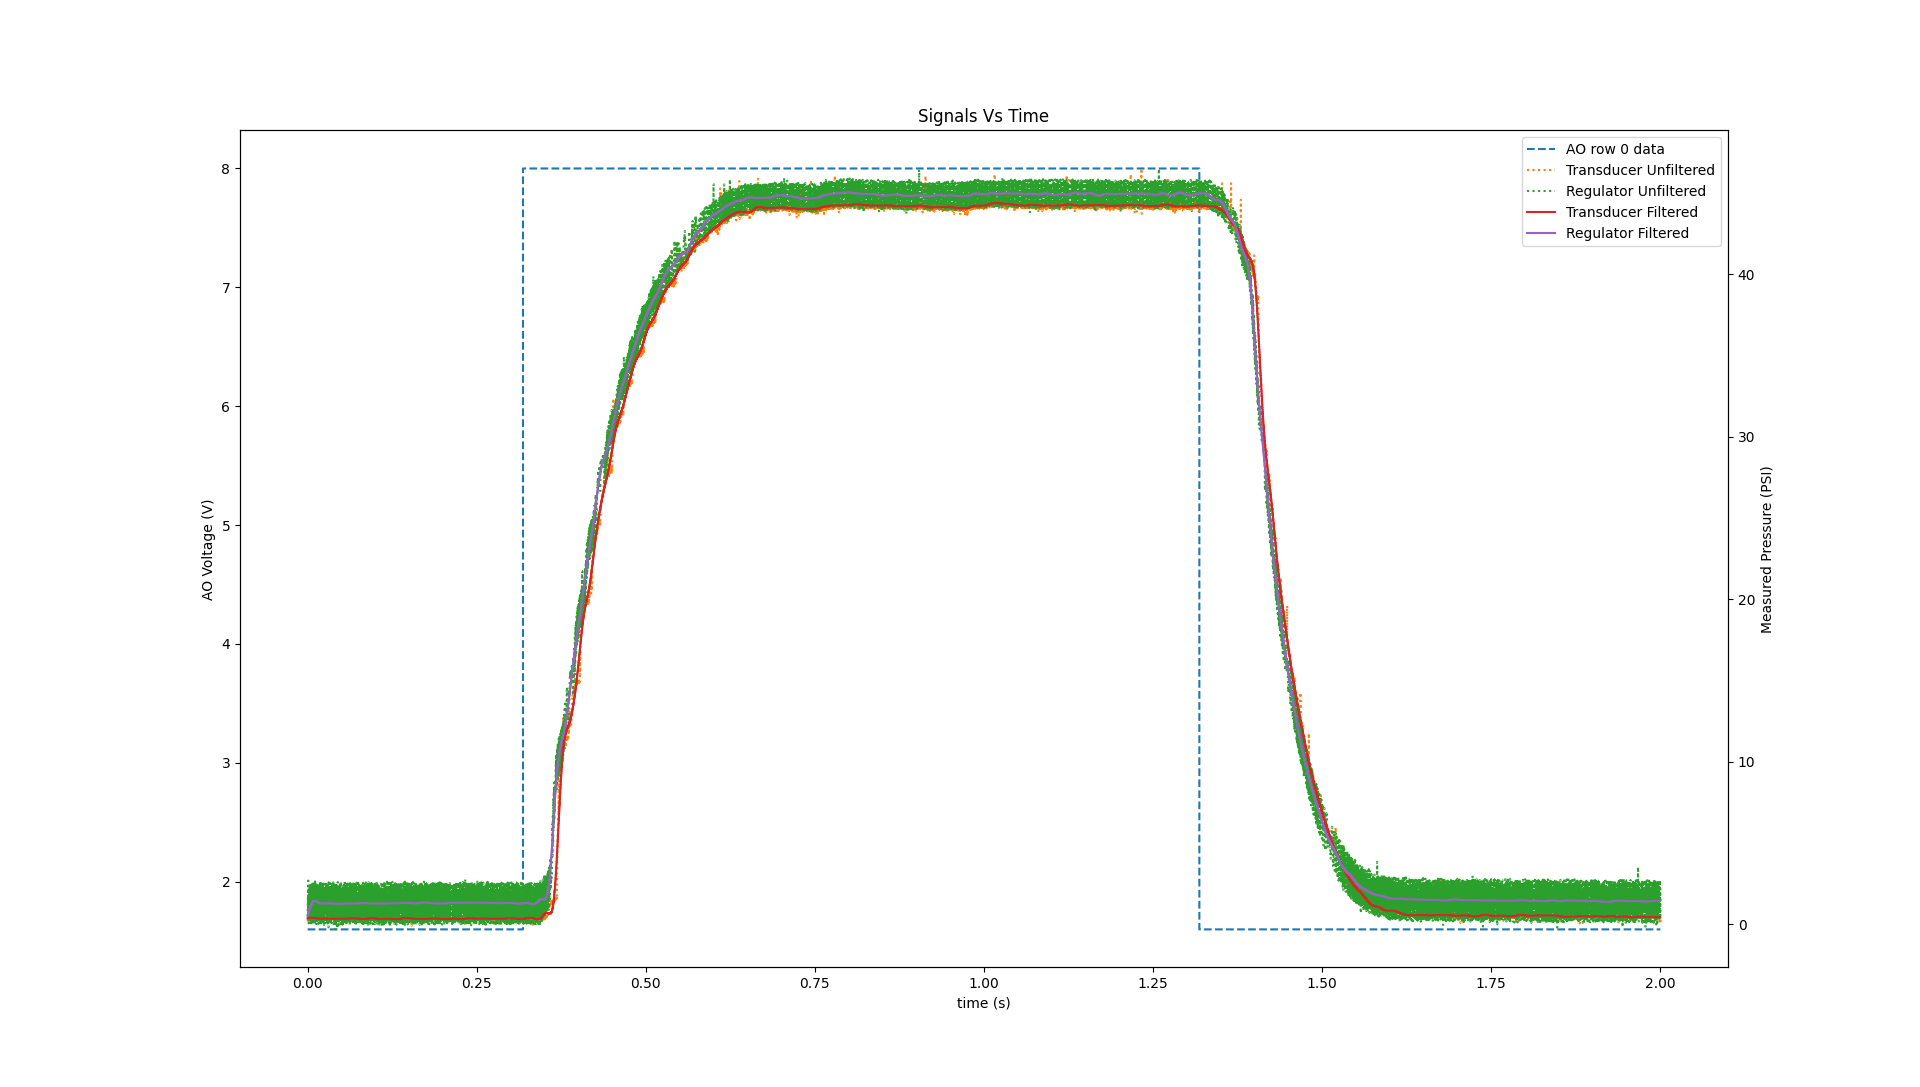
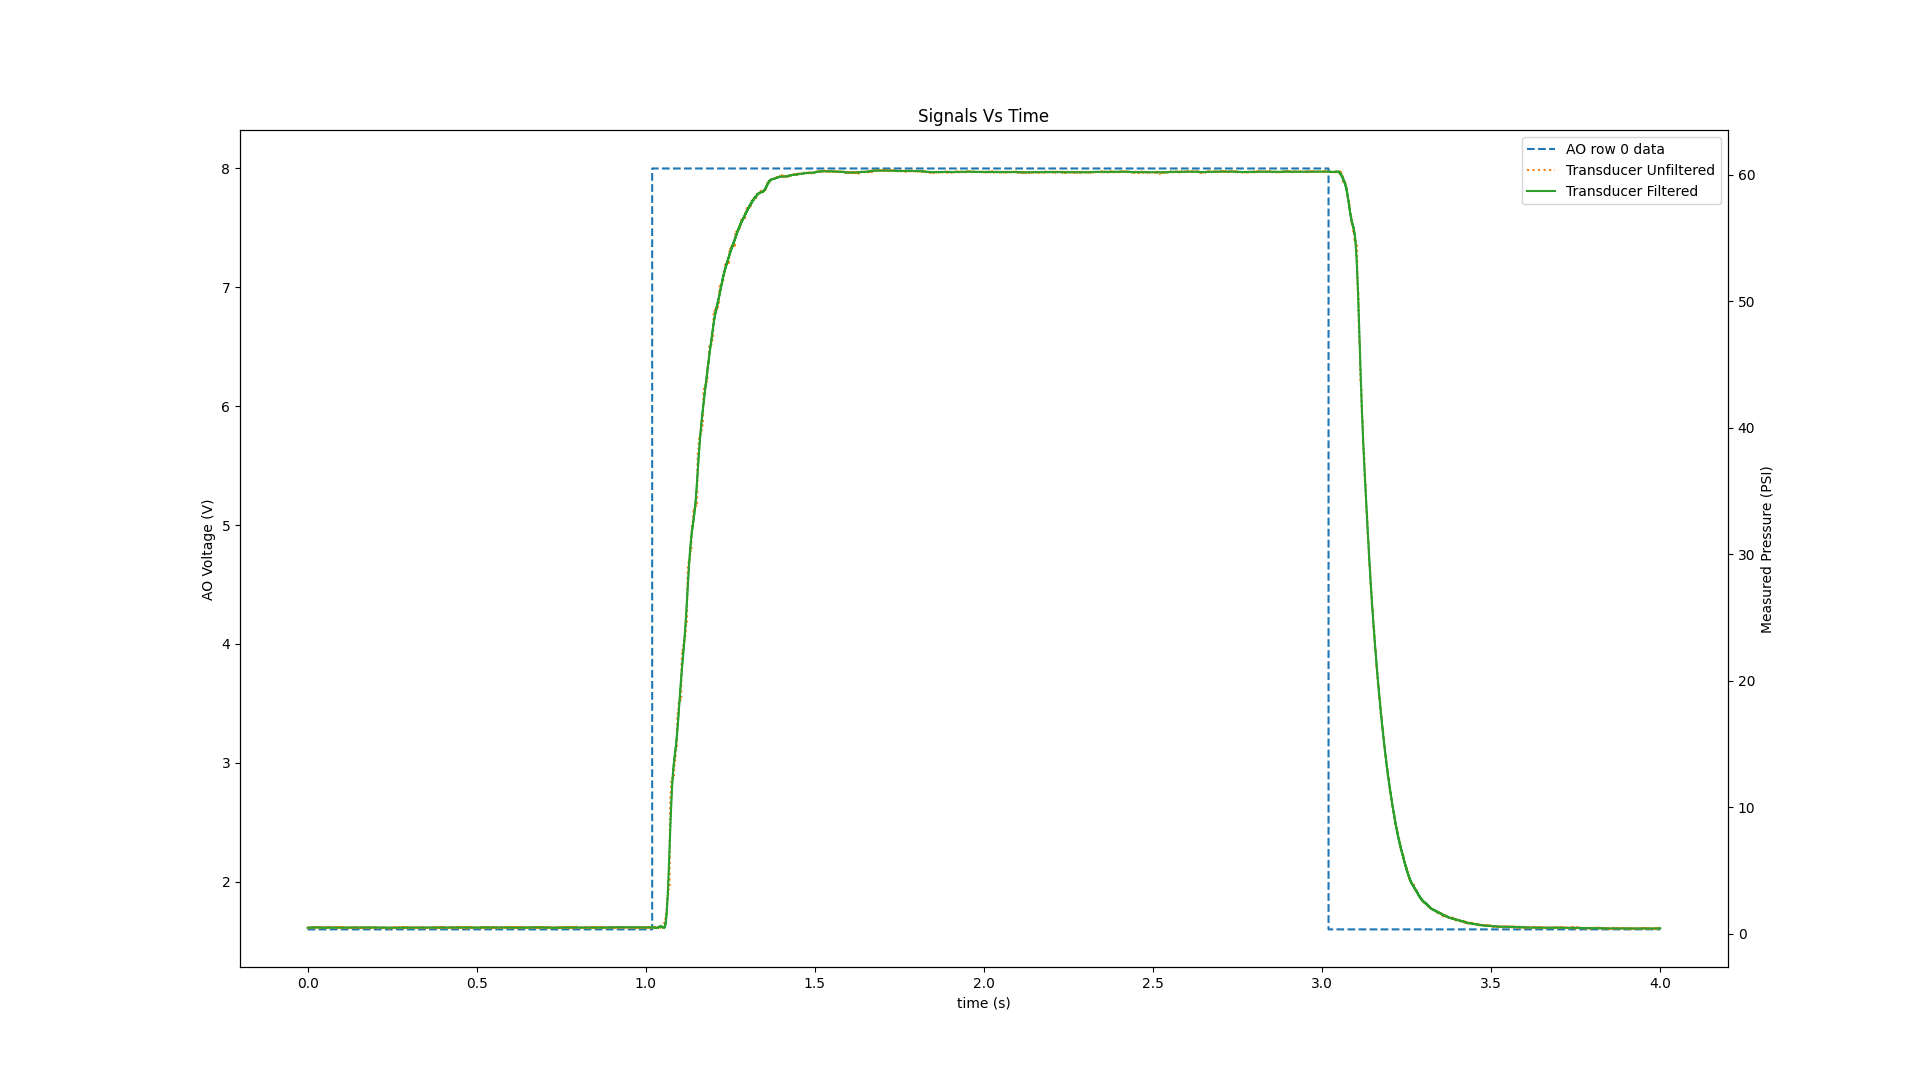
finished calibrating regulator 2

diff --git a/Pneumatic-Calibration/src/SamplingFuncs/CalibrationFunctions.py b/Pneumatic-Calibration/src/SamplingFuncs/CalibrationFunctions.py
@@ -73,7 +73,7 @@ def get_best_fit(time: np.ndarray[np.float64], analog_out_data: np.ndarray[np.fl
           - save_data:          True to save to JSON file, False to leave JSON data untouched
           - parameter_name:     Name for the parameter being fit (i.e. "CurrentLoop") to be used when storing data in the JSON file
           - filename:           File name of the JSON file for data export
-          - linenames:          Names for each row in measured_data to be put in legend
+          - linenames:          Names for each row in measured_data to be put in legend if "none", will use a marker style
           - linestyles:         line styles for each row in measured_data
                                              
         Outputs to JSON for each output pair:
@@ -138,47 +138,48 @@ def get_best_fit(time: np.ndarray[np.float64], analog_out_data: np.ndarray[np.fl
 
 
     # ---------------------- CALCULATE LoBF ----------------------
-    lobf_y_dat = np.zeros((num_fits,num_samples))
-    s_est_dat = np.zeros(num_fits)
+    if len(out_in_pairs) > 0:
+        lobf_y_dat = np.zeros((num_fits,num_samples))
+        s_est_dat = np.zeros(num_fits)
 
-    for fit in range(num_fits):
-        fit_pair = out_in_pairs[fit]
-        ao_channel = fit_pair[0]
-        in_channel = fit_pair[1]
+        for fit in range(num_fits):
+            fit_pair = out_in_pairs[fit]
+            ao_channel = fit_pair[0]
+            in_channel = fit_pair[1]
 
-        if not(0 <= ao_channel < num_ao_channels):
-            raise ValueError("value for analog out in 'out_in_pairs' is invalid, falls below 0 or outside of range of number of rows in analog_out_data")
-        if not(0 <= in_channel < num_in_channels):
-            raise ValueError("value for analog in in 'out_in_pairs' is invalid, falls below 0 or outside of range of number of rows in measured_data")
+            if not(0 <= ao_channel < num_ao_channels):
+                raise ValueError("value for analog out in 'out_in_pairs' is invalid, falls below 0 or outside of range of number of rows in analog_out_data")
+            if not(0 <= in_channel < num_in_channels):
+                raise ValueError("value for analog in in 'out_in_pairs' is invalid, falls below 0 or outside of range of number of rows in measured_data")
 
-        x = analog_out_data[ao_channel,:]
-        y = measured_data[in_channel,:]
+            x = analog_out_data[ao_channel,:]
+            y = measured_data[in_channel,:]
 
-        m,b = np.polyfit(x,y,1)                     # LoBF
-        y_pred = m*x + b                            # predicted current values from LoBF
-        ss_res = np.sum(np.square(y_pred - y))      # sum of square residuals
-        s_est = np.sqrt(ss_res/(num_samples-2))     # standard error of the estimate
-        y_mean = np.average(y)
-        ss_tot = np.sum(np.square(y-y_mean))        # sum of total squared error
-        r2 = 1-(ss_res/ss_tot)                      # R squared
+            m,b = np.polyfit(x,y,1)                     # LoBF
+            y_pred = m*x + b                            # predicted current values from LoBF
+            ss_res = np.sum(np.square(y_pred - y))      # sum of square residuals
+            s_est = np.sqrt(ss_res/(num_samples-2))     # standard error of the estimate
+            y_mean = np.average(y)
+            ss_tot = np.sum(np.square(y-y_mean))        # sum of total squared error
+            r2 = 1-(ss_res/ss_tot)                      # R squared
 
-        lobf_y_dat[fit,:] = y_pred
-        s_est_dat[fit] = s_est
+            lobf_y_dat[fit,:] = y_pred
+            s_est_dat[fit] = s_est
 
-        # Update LoBF data for channel
-        if save_data:
-            with open(filename, "r") as f:
-                data = json.load(f)
+            # Update LoBF data for channel
+            if save_data:
+                with open(filename, "r") as f:
+                    data = json.load(f)
 
-            data[f"{parameter_name}{fit+1}"] = {
-                "m": m,
-                "b": b,
-                "s_est": s_est,
-                "r2": r2
-            }
+                data[f"{parameter_name}{fit+1}"] = {
+                    "m": m,
+                    "b": b,
+                    "s_est": s_est,
+                    "r2": r2
+                }
 
-            with open(filename, "w") as f:
-                json.dump(data, f, indent=4)
+                with open(filename, "w") as f:
+                    json.dump(data, f, indent=4)
 
 
 
@@ -191,11 +192,15 @@ def get_best_fit(time: np.ndarray[np.float64], analog_out_data: np.ndarray[np.fl
 
     for ao_channel in range(num_ao_channels):
         c = next(colors)
-        axs1.step(time,analog_out_data[ao_channel,:],linestyle='dashed', color=c, label=f"AO row {ao_channel} data", where='post')
+        axs1.step(time,analog_out_data[ao_channel,:], marker = 'o', linestyle='dashed', color=c, label=f"AO row {ao_channel} data", where='post')
         
     for in_channel in range(num_in_channels):
         c = next(colors)
-        axs1_2.step(time,measured_data[in_channel,:],linestyle=linestyles[in_channel], color=c, label=linenames[in_channel], where='post')
+        if linestyles[in_channel] == "none":
+            markerstyle = "o"
+        else:
+            markerstyle = "none"
+        axs1_2.step(time,measured_data[in_channel,:], marker = markerstyle, linestyle=linestyles[in_channel], color=c, label=linenames[in_channel], where='post')
 
     axs1.set_title('Signals Vs Time')
     axs1.set(xlabel='time (s)', ylabel='AO Voltage (V)')
@@ -206,39 +211,40 @@ def get_best_fit(time: np.ndarray[np.float64], analog_out_data: np.ndarray[np.fl
 
 
     # PLOT AGAINST LoBF
-    rows = int(np.ceil(np.sqrt(num_fits)))
-    cols = int(np.ceil(num_fits / rows))
+    if len(out_in_pairs) > 0:
+        rows = int(np.ceil(np.sqrt(num_fits)))
+        cols = int(np.ceil(num_fits / rows))
 
-    fig2,axs2 = plotter.subplots(rows,cols)
-    for fit in range(num_fits):
-        col = fit//rows
-        row = fit % rows
+        fig2,axs2 = plotter.subplots(rows,cols)
+        for fit in range(num_fits):
+            col = fit//rows
+            row = fit % rows
 
-        if cols == 1:
-            if rows == 1:
-                axs = axs2
+            if cols == 1:
+                if rows == 1:
+                    axs = axs2
+                else:
+                    axs = axs2[row]
             else:
-                axs = axs2[row]
-        else:
-            axs = axs2[row,col]
+                axs = axs2[row,col]
 
-        fit_pair = out_in_pairs[fit]
-        ao_channel = fit_pair[0]
-        in_channel = fit_pair[1]
+            fit_pair = out_in_pairs[fit]
+            ao_channel = fit_pair[0]
+            in_channel = fit_pair[1]
 
-        x = analog_out_data[ao_channel,:]
-        y = measured_data[in_channel,:]
+            x = analog_out_data[ao_channel,:]
+            y = measured_data[in_channel,:]
 
-        y_est = lobf_y_dat[fit,:]
-        y_est_up = y_est + 2*s_est_dat[fit]
-        y_est_down = y_est - 2*s_est_dat[fit]
+            y_est = lobf_y_dat[fit,:]
+            y_est_up = y_est + 2*s_est_dat[fit]
+            y_est_down = y_est - 2*s_est_dat[fit]
 
-        axs.plot(x,y,'k-',label=f"AO row {ao_channel}, Measured row {in_channel}")
-        axs.plot(x,y_est_up,'r--',label="+2 sigma")
-        axs.plot(x,y_est_down,'r--',label="-2 sigma")
-        axs.set_title(f'Calibration Fit For AO/AI Pair {fit}')
-        axs.set(xlabel='AO Voltage (V)', ylabel=y_name)
-        axs.legend()
+            axs.plot(x,y,'k-',label=f"AO row {ao_channel}, Measured row {in_channel}")
+            axs.plot(x,y_est_up,'r--',label="+2 sigma")
+            axs.plot(x,y_est_down,'r--',label="-2 sigma")
+            axs.set_title(f'Calibration Fit For AO/AI Pair {fit}')
+            axs.set(xlabel='AO Voltage (V)', ylabel=y_name)
+            axs.legend()
 
     plotter.show()
     

diff --git a/Pneumatic-Calibration/src/AirRegulatorCalibration.py b/Pneumatic-Calibration/src/AirRegulatorCalibration.py
@@ -6,7 +6,6 @@ import scipy as sp
 from scipy.signal import butter, filtfilt
 import json
 
-
 def volts_to_psi(volts: np.ndarray[float]) -> np.ndarray[float]:
     """ INFO
         Purpose
@@ -44,12 +43,13 @@ def volts_to_psi(volts: np.ndarray[float]) -> np.ndarray[float]:
 
 # Constants
 json_filename = "Calibration_Params.json"
-samp_per_wave = 10000                        # number of samples per period of wave in calibration data collection
-num_wave = 1                                # number of wave periods per trial in calibration data collection
-wave_period = 2                             # period of a single wave form in [s]
-num_trials = 1                              # number of trials to combine to get complete calibration data (necessary to separate from num_wave due b/c of max buffer size)
-# filter_window_size = 10                     # number of samples for window size of moving average filter
-cutoff_frequency = 50                      # cutoff frequency for butter filter
+samp_per_wave = 10                              # number of samples per period of wave in calibration data collection
+num_wave = 20                                    # number of wave periods per trial in calibration data collection
+wave_period = samp_per_wave*.75                 # period of a single wave form in [s]
+num_trials = 1                                  # number of trials to combine to get complete calibration data (necessary to separate from num_wave due b/c of max buffer size)
+
+cutoff_frequency = (samp_per_wave/wave_period)/(2*np.pi*10)     # cutoff frequency for butter filter
+                                                                #   base noise frequency will be sample_frequency/(2*pi), reduced by factor of 10
 
 # Get 4-20 mA voltage bounds from current loop interface calibration parameters
 with open(json_filename, "r") as f:
@@ -71,10 +71,20 @@ def triangle_wave(x):
     return sp.signal.sawtooth(x, width=0.5)
 
 def square_wave(x):
-    return sp.signal.square(x-(0.5*wave_period), duty=0.5)
+    return sp.signal.square(x-(0.4)*wave_period, duty=0.5)
 
-t,sig = generate_waveform(square_wave,num_wave,voltage_bounds,samp_per_wave,None,1/wave_period)
+
+t,sig = generate_waveform(triangle_wave,num_wave,voltage_bounds,samp_per_wave,None,1/wave_period)
 fs = 1/(t[1]-t[0])  # get sampling frequency from waveform
+
+
+# This block is for generating oversampled waveforms, comment out if not using that
+scale_factor = 1000                 # how many times to sample AI per update of AO
+fs = fs*scale_factor                # update sample frequency
+sig = np.repeat(sig,scale_factor)   # update signal
+t = t = np.arange(len(sig))/fs      # update time
+cutoff_frequency = fs/(2*np.pi*10)  # update filter cutoff
+
 
 # Connect to the DAQ and get data with the above wave form
 my_daq = Daq6421()
@@ -107,21 +117,30 @@ def butter_lowpass_filter(data, cutoff, fs, order=5):
     y = filtfilt(b, a, data)
     return y
 
-def moving_average_filter(data,n):
-    b = np.ones(n)/n
-    a = 1
-    y = filtfilt(b,a,data)
-    return y
 
 data_total = volts_to_psi(data_total)
 
 chan_1_filtered = butter_lowpass_filter(data_total[0,:],cutoff_frequency,fs)
 chan_2_filtered = butter_lowpass_filter(data_total[1,:],cutoff_frequency,fs)
 
-# chan_1_filtered = moving_average_filter(data_total[0,:],filter_window_size)
-# chan_2_filtered = moving_average_filter(data_total[1,:],filter_window_size)
+# data_total = np.vstack((data_total,chan_1_filtered,chan_2_filtered))
+data_total = np.vstack((data_total[0,:],chan_1_filtered))
 
-data_total = np.vstack((data_total,chan_1_filtered,chan_2_filtered))
+# this block is only used if the input waveform was oversampled, comment out if not using that
+test_values = [x*scale_factor for x in range(1, samp_per_wave*num_wave*num_trials + 1)]
+test_values.append(-1)
+analog_out_data = [sig_total[x] for x in test_values[:-1]]       # grabs the data point right before output changes
+pressure_data = [chan_1_filtered[x] for x in test_values[1:]]
+t_data = [t_total[x] for x in test_values[:-1]]
+analog_out_data = np.array((analog_out_data))
+pressure_data = np.array((pressure_data))
+t_data = np.array(t_data)
+
+
+
+get_best_fit(t_data,analog_out_data,pressure_data,[(0,0)],"Measured Pressure (PSI)", True, "Regulator",  linestyles= ['none'], linenames= ["Transducer Filtered"])
 
 # Get best fit data from results
-get_best_fit(t_total,sig_total,data_total,[(0,0),(0,1)],"Measured Pressure (PSI)",linestyles= ['dotted','dotted','solid','solid'], linenames= ["Transducer Unfiltered","Regulator Unfiltered","Transducer Filtered","Regulator Filtered"])
+# get_best_fit(t_total,sig_total,data_total,[],"Measured Pressure (PSI)",linestyles= ['dotted','solid'], linenames= ["Transducer Unfiltered","Transducer Filtered"])
+
+# get_best_fit(t_total,sig_total,data_total[0,:],[],"Measured Pressure (PSI)",linestyles= ['solid'], linenames= ["Transducer Unfiltered"])

diff --git a/Pneumatic-Calibration/Notebook.md b/Pneumatic-Calibration/Notebook.md
@@ -102,7 +102,7 @@ The following connections were made between the pressure tranducer and the curre
 |-----------------|-----------------------------|
 | Red             | Curr IN: V+                 |
 | Black           | Curr IN: I1                 |
-| Shield          | N/A                         |
+| Shield          | AI TO DAQ: GND              |
 
 
 - The DAQ was connected to the lab computer via USB-C
@@ -113,15 +113,93 @@ The following connections were made between the pressure tranducer and the curre
 
 I assume a linear relationship from 0 to 100 PSI acting on the pressure transducer to 4 to 20 mA of output current, which is supported by its calibration data. The pressure transducer was directly connected to the output of the regulator, and the regulator manifold was supplied with a regulated 80 PSI from the wall.
 
+The regulator's upper and lower pressure setpoints (F_1 and F_2 on the regulator display) were set to 0 and 60 psi respectively.
+
 Below are images of the wiring setup and pneumatic setup for this calibration:
 ![](Images/Setup/PneumaticCalibrationWiring.jpg)
+The above image does not show transucer shield wiring connected to GND or the 24V barrel jack connected to the current loop interface; both of these connections were made during testing.
 
 ![](Images/Setup/PneumaticCalibrationAir.jpg)
 
 ## Methods & Results
-I first wanted to test the transient response for these regulators, so I looked at the step response. To get the step response, I used a square wave with 2s period and 10kS per period. The measured pressure data was very noisy, so I applied a lowpass filter (`scipy.signal.butter`) with cutoff frequency of 50 Hz to eliminate most of the noise. The result of this step response is shown below:
+We first opened the air regulator and oiled its upper and lower air driven valves, which were very sticky at first. We were only able to open regulator 2 due to a stripped screw in regulator 1, so the results presented here are only for regulator 2 unless otherwise stated.
+
+
+I first wanted to test the transient response for these regulators, so I looked at the step response. To get the step response, I used a square wave from 4-20 mA with a period of 4s and 10k samples per period. The measured pressure data was noisy, so I applied a lowpass filter (`scipy.signal.butter`) with cutoff frequency of 40 Hz to eliminate most of the noise. The result of this step response is shown below:
 ![](Images/Figures/RegulatorTimeResponse.png)
 
 <br>
 
-I calculated the 95% settling time off of the filtered transducer signal in code, which yielded:
+Though uncalibrated, the pressure regulator did settle at 60 psi under 20 mA control current as expected, to within ~0.2 psi.
+
+There is a delay of ~35 ms between when the control current changes and when the regulator begins to change its pressure on both rising and falling edges. This is likely not due to any transience on the current control side, as when calibrating the current controller it worked as expected well above 1 kHz.
+
+I calculated 95% rise time both starting from the rising/falling edge of the control signal and starting from the first rising/falling data point in the transducer signal (unfiltered). Rising and falling points were detected 'by eye' on the graph. I considered the stable value to be 60.24 psi, putting the 95% settled value at 57.228 psi. The results are shown in the below table:
+
+|                     | Channel 1 | Channel 2 |
+|---------------------|-----------|-----------|
+| Slope (mA/V)        | 2.499177  | 2.499259  |
+| Interecept (mA)     | 7.2334E-3 | 8.4657E-3 |
+| Standard Error (mA) | 2.088E-2  | 2.013E-2  |
+| R Squared           | 0.99999   | 0.99999   |
+
+<br>
+
+While venting is faster than pressurizing, the difference between the two's performance (~15 ms) is much smaller than the overall time of ~250 ms. The large overall settling time also makes the  ~35 ms delay assumedly introduced by the regulator's controller less significant.
+
+Assuming then that the regulator is rate-limited by airflow, the maximum response for this regulator with 80 psi inlet pressure and 60 psi commanded outlet pressure should be: 57.228 psi / 0.25 s or ~225 psi/s. In a triangle wave commanding 0 to 60 psi outlet pressure, this represents a wave period of: 2 * (60 psi / 225 psi/s) or ~0.524 s. I tested a triangle wave with these parameters (4 - 20 mA signal amplitude, 0.524 s wave period, 10k samples per wave); the results are shown below:
+
+![](Images/Figures/RegulatorTimeResponseTriangleWave.png)
+
+<br>
+
+There is a substantial lag between control signal and the pressure signal. I measured these offsets at 6V AO Voltage and got: 63 ms on average and 184 ms on average for the rising edge and falling edge respectively.
+
+The peak pressure achieved was ~50 psi—10 psi lower than the expected value. The minimum pressure achieved (ignoring the start) was ~21 psi.
+
+Clearly, the maximum rate of pressure change calculated from the step response is not achievable as a continuously controlled ramp. To find the maximum controllable rate of pressure change, I slowly increased wave period until I saw good performance. While the delay significantly decreased with a relatively small increase in period (1 s period saw substantial improvement), the regulator still could not reach maximum or minimum pressure properly. I've recorded max and min pressures for several tested wave periods in the following table:
+
+| Wave Period (s) | Max Pressure (psi) | Min Pressure (psi) |
+|-----------------|--------------------|--------------------|
+| 0.6             | 50.853             | 19.577             |
+| 0.8             | 53.350             | 16.106             |
+| 1.0             | 54.877             | 10.969             |
+| 1.5             | 57.189             | 5.148              |
+| 2.0             | 58.262             | 3.913              |
+| 2.5             | 58.892             | 2.978              |
+| 3.0             | 59.226             | 1.629              |
+| 4.0             | 59.624             | 1.214              |
+| 5.0             | 59.631             | 0.945              |
+| 10.0            | 60.004             | 0.536              |
+
+
+Across the range of frequencies tested the venting edge of the transducer signal consistently showed a change in slope from ~1/4 of the way down from max pressure. That combined with the very poor performance compared to the step test lead me to believe that maybe the regulator needs a settling time at each commanded pressure before new commands are given. To that end, I tried reducing the number of changes in the control waveform such that the regulator would again have ~0.524 s between updates in pressure:
+
+![](Images/Figures/OversampledTriangleWave.png)
+
+<br>
+
+Allowing the regulator to settle each step of the signal seems to work well. The 0.524 s settling time here is more than is needed as these jumps in pressure are smaller than the 0-60 psi step response T95% was measured from.
+
+With this in mind, to get a calibration curve for true pressure (using the calibrated transducer as a source of truth) as a function of input voltage, I ran 40 trials using a signal with 10 samples per wave and a 7.5 s wave period. I used the filtered readings taken the sample before the control signal changed to get a calibration curve:
+
+![](Images/Figures/PneumaticCalibrationTimeSeries.png)
+
+![](Images/Figures/PneumaticCalibrationFit.png)
+
+The fit parameters are again saved in the [Calibration_Params.json](Calibration_Params.json) file and are reported below:
+- slope: 9.348368 psi / V
+- intercept: -14.866592 psi
+- standard error: 0.178 psi
+- R squared: 0.99990
+
+I can use the current control calibration to estimate what these parameters should be. When programmed with 0-60 psi limits, the regulator should output 0 psi at 4 mA input current and 60 psi at 20 mA imput current. This shakes out to a transfer function:
+P = 3.750*I - 15.000
+
+From the current loop interface calibration, I can substitute the conversion from volts to current:
+I = 2.499*V - 0.007
+
+Into the equation for pressure:
+P = 9.372*V - 14.973
+
+These values for slope and intercept are very close to the values determined experimentally, woo!